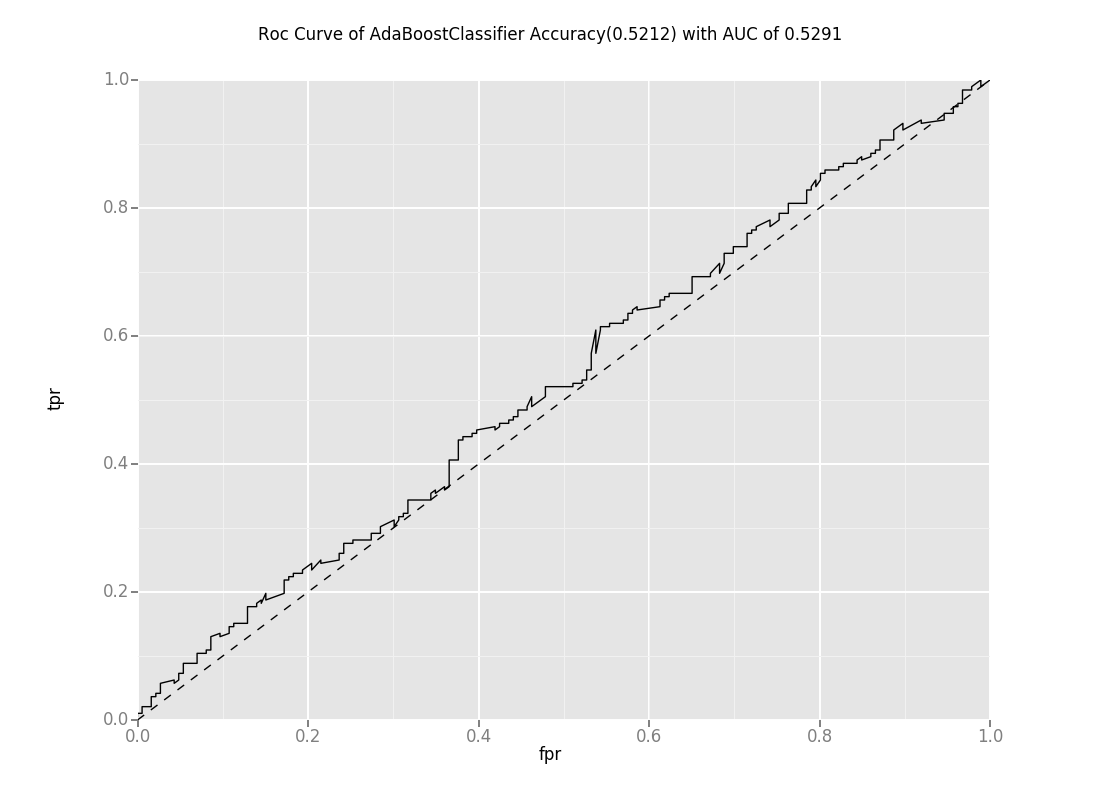
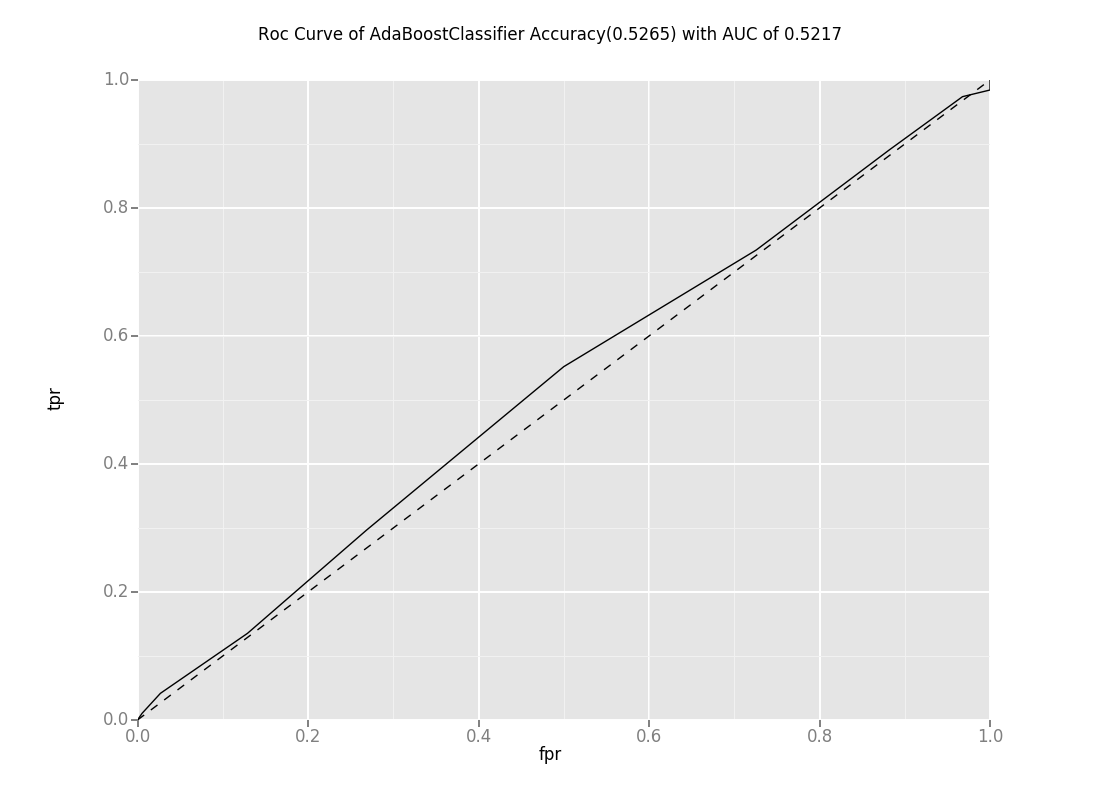
update

diff --git a/generate_auc_curve.py b/generate_auc_curve.py
@@ -103,7 +103,7 @@ print count/float(len(decrease_list))
 Classifiers = [
     KNeighborsClassifier(n_neighbors=5),
     #SVC(kernel="rbf", C=0.025,probability=True),
-    AdaBoostClassifier(RandomForestClassifier()),
+    AdaBoostClassifier(ExtraTreesClassifier()),
     DecisionTreeClassifier(),
     ExtraTreesClassifier(),
    	]
@@ -135,7 +135,7 @@ for clf in Classifiers:
 	tmp = pd.DataFrame(dict(fpr=fpr, tpr=tpr))
  	g = ggplot(tmp, aes(x='fpr', y='tpr')) +geom_line() +geom_abline(linetype='dashed')+ ggtitle('Roc Curve of '+clf.__class__.__name__ + " Accuracy("+str(round(accuracy[0],4))+") with AUC of "+ str(round(auc(fpr,tpr),4)))
  	filename = str("AUC/")+str(clf.__class__.__name__)+".png"
- 	#g.save(filename)
+ 	g.save(filename)
  	predDict[str(clf.__class__.__name__)] = predictions
 pickle.dump(predDict, open("pickle/prediction.p","wb"))
 
